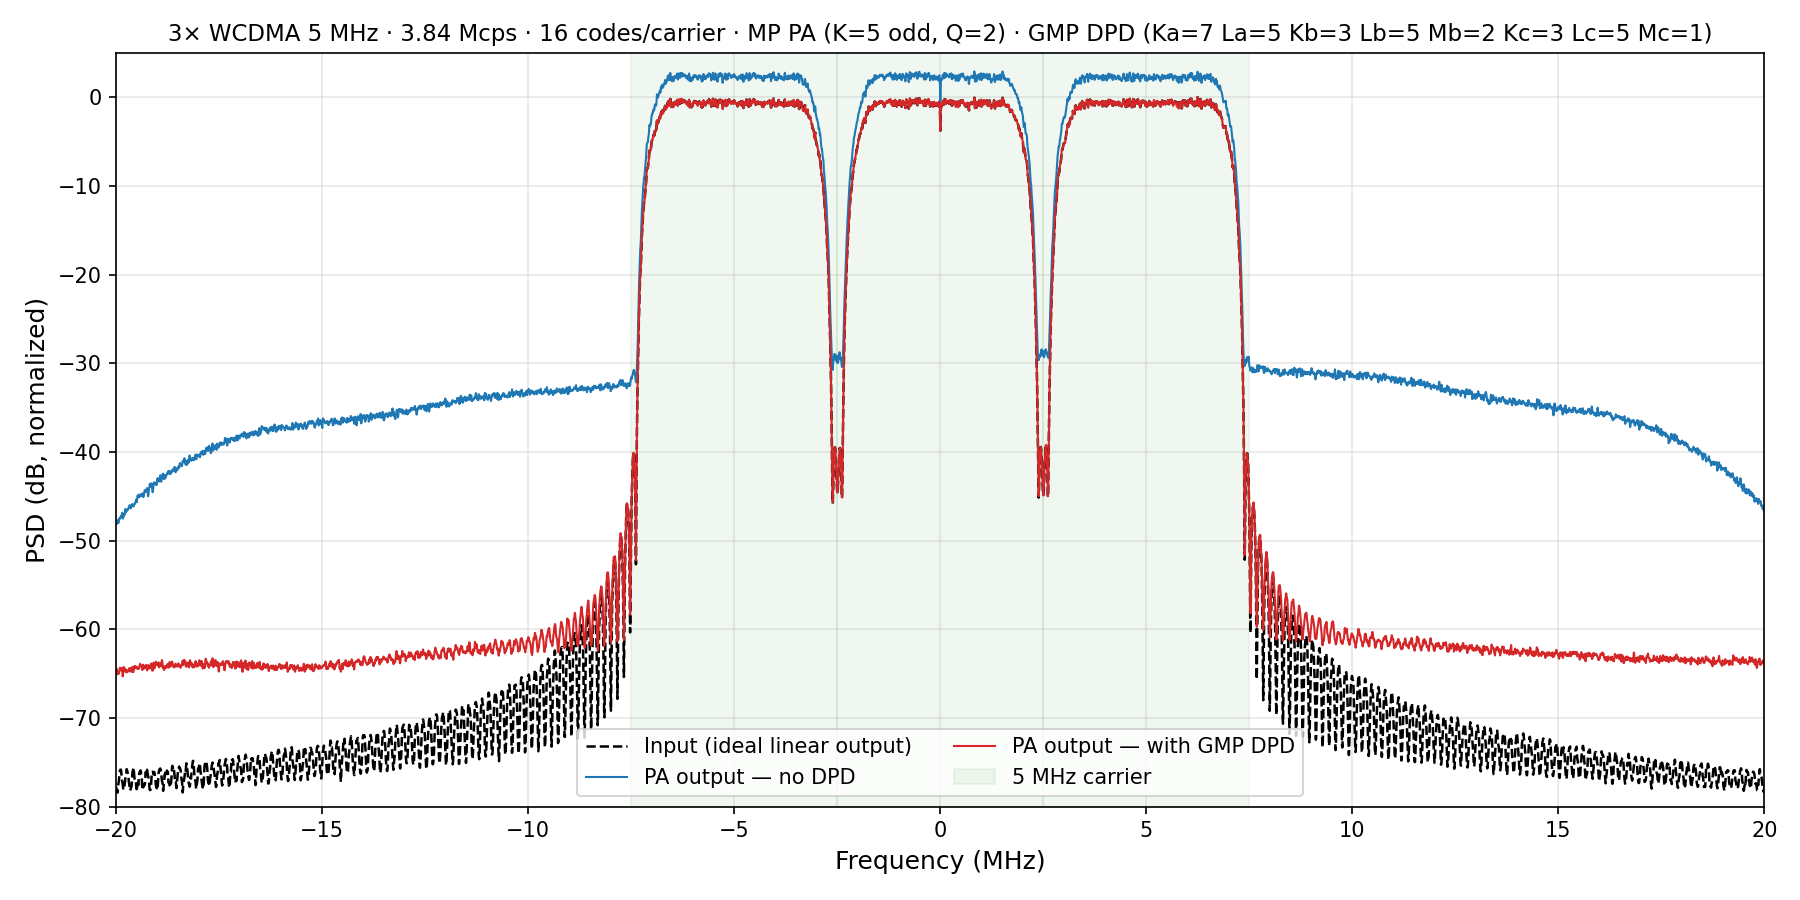
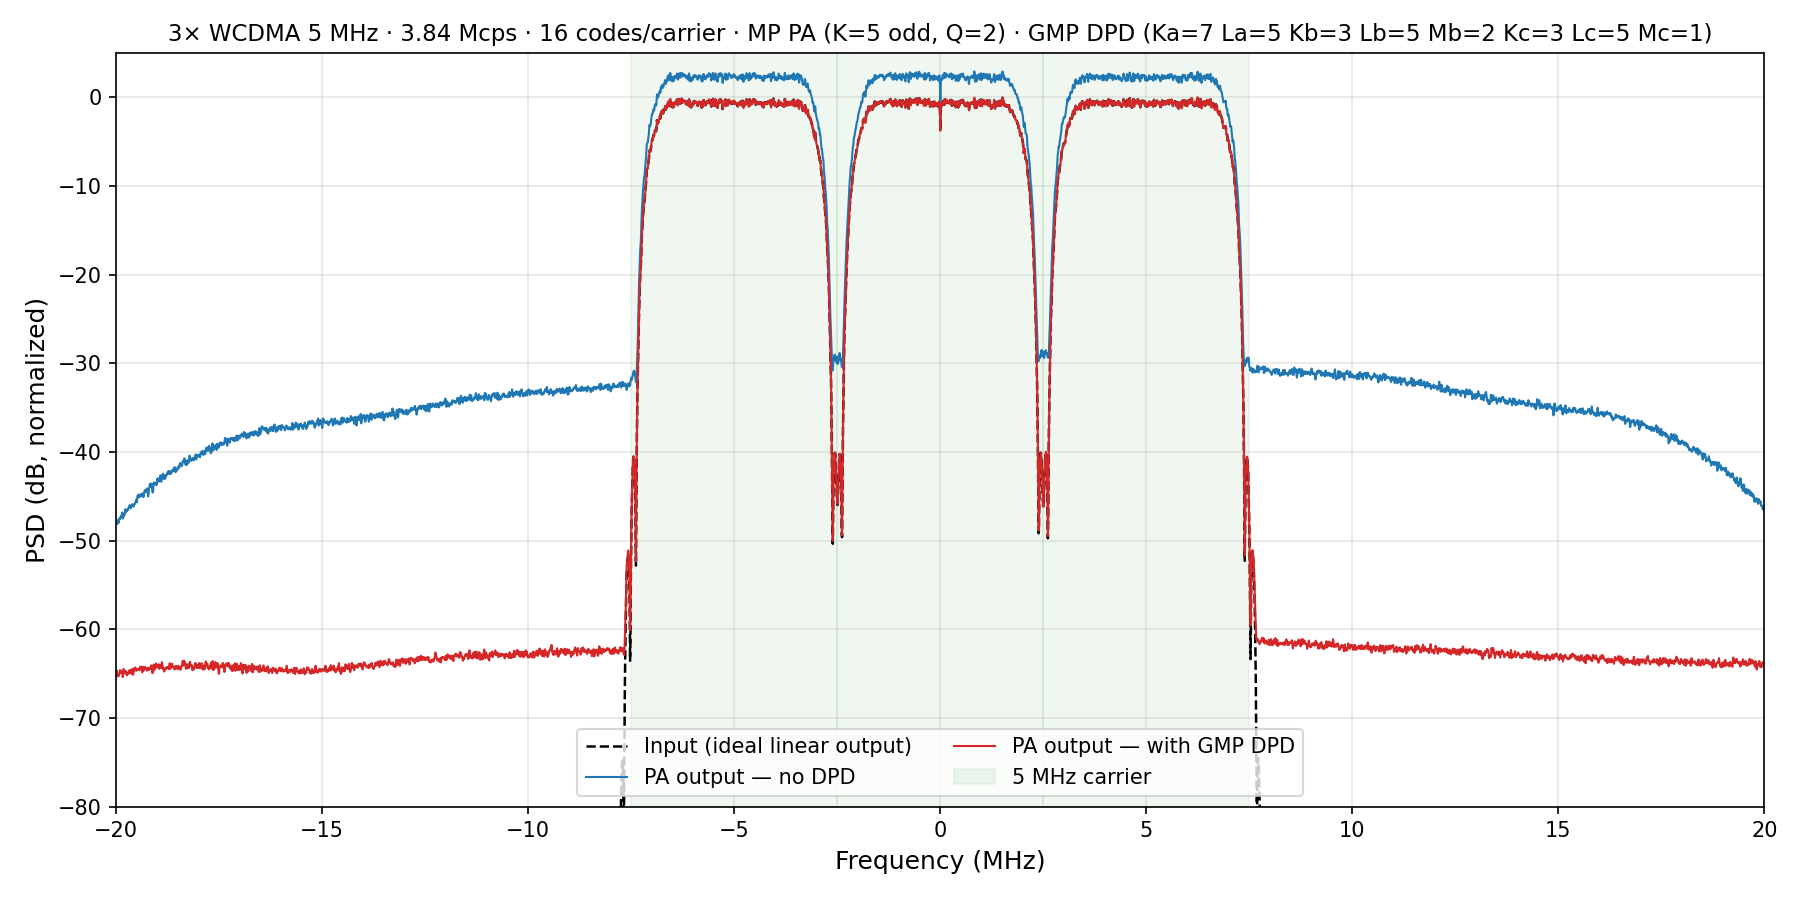
Add -80 dB channel FIR filter after RRC in DPD script WCDMA generator
Made-with: Cursor

Changed region(s): [[0.6844, 0.56, 0.9956, 0.8711], [0.0622, 0.56, 0.3733, 0.9022], [0.56, 0.4978, 0.5911, 0.5911]]

diff --git a/gmp_dpd_standalone.py b/gmp_dpd_standalone.py
@@ -435,7 +435,21 @@ def generate_wcdma(
 
     filtered = np.convolve(upsampled, h_rrc, mode='full')
     start = len(h_rrc) // 2
-    return filtered[start : start + n_samples]
+    rrc_out = filtered[start : start + n_samples]
+
+    # Channel FIR filter: -80 dB sidelobes, passband = occupied BW
+    from scipy.signal import firwin, kaiserord
+    passband_edge = chip_rate * (1 + alpha) / 2
+    stopband_edge = passband_edge + 0.5e6
+    transition_width = stopband_edge - passband_edge
+    numtaps, beta = kaiserord(80, transition_width / (fs / 2))
+    if numtaps % 2 == 0:
+        numtaps += 1
+    cutoff = (passband_edge + stopband_edge) / 2
+    h_chan = firwin(numtaps, cutoff, window=('kaiser', beta), fs=fs)
+    chan_filtered = np.convolve(rrc_out, h_chan, mode='full')
+    start2 = len(h_chan) // 2
+    return chan_filtered[start2 : start2 + n_samples]
 
 
 def generate_multicarrier_wcdma(
